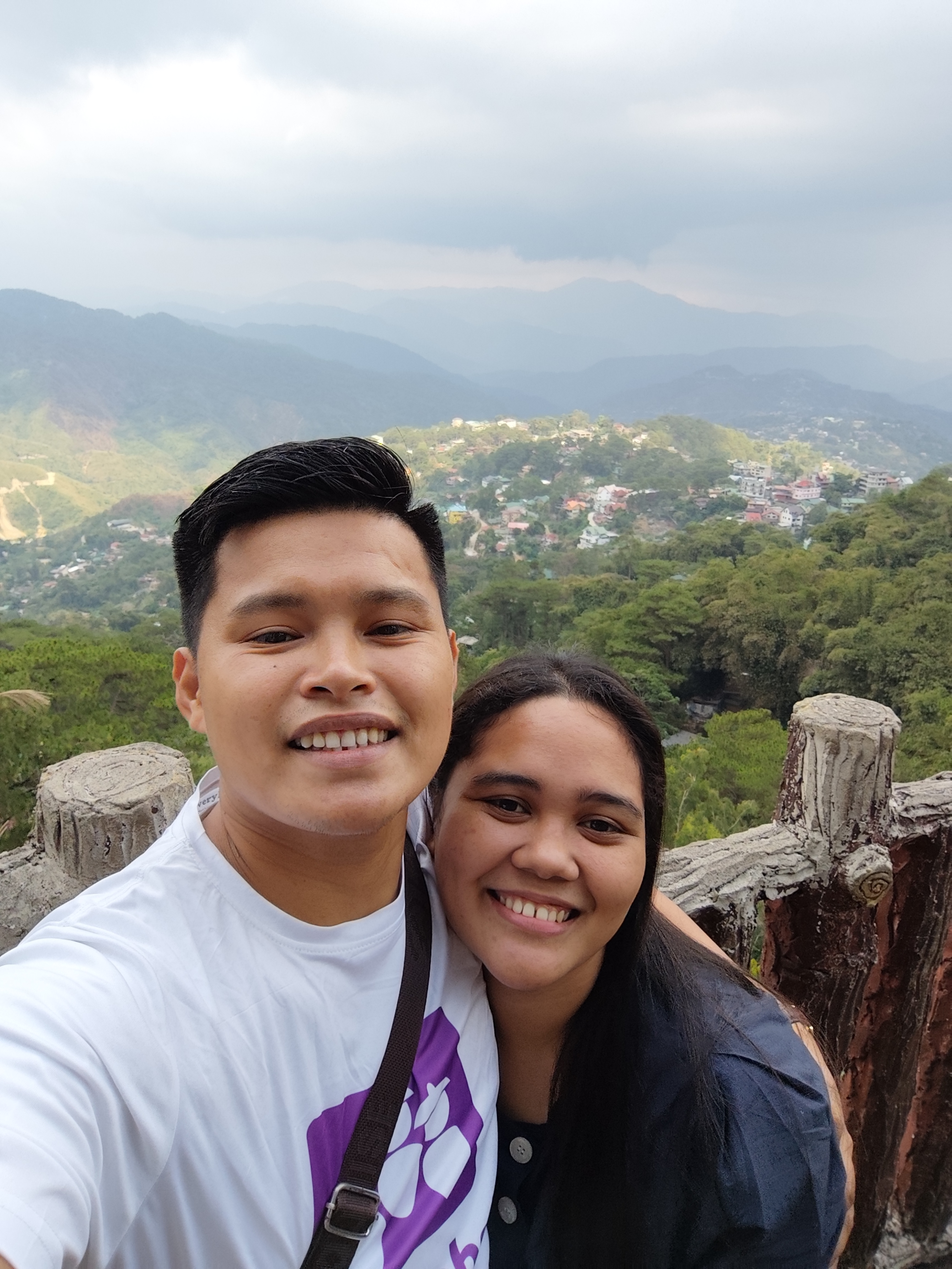
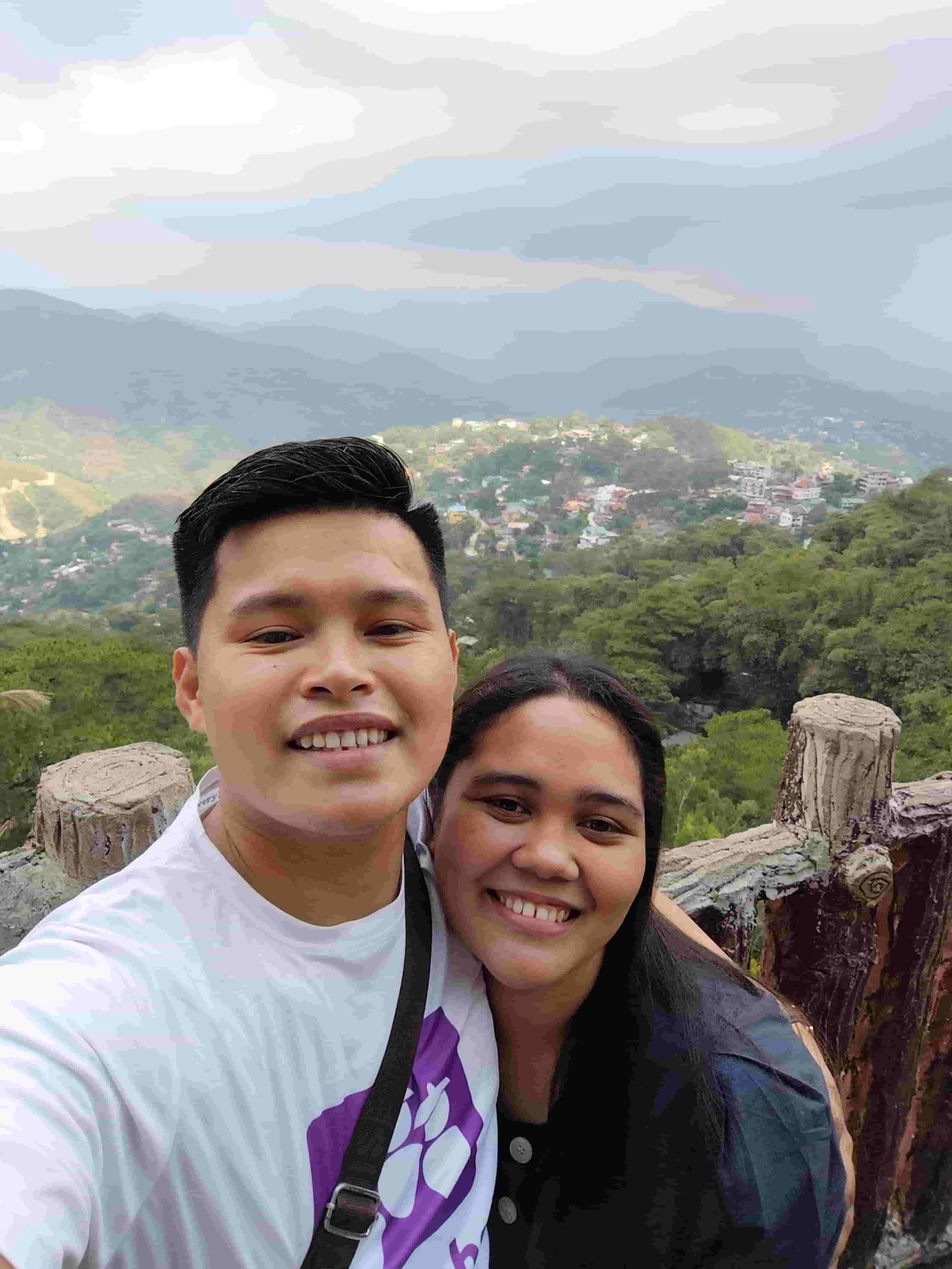
images optimize

diff --git a/place.html b/place.html
@@ -27,7 +27,7 @@
             <picture>
                 <source class="big-image" srcset="images/baguio.webp" media="(min-width: 600px)">
 
-                <img class="hero-image" src="images/inBaguio.webp" alt="Summer Capital of the Philippines">
+                <img class="hero-image" src="images/inBaguio.jpg" alt="Summer Capital of the Philippines">
             </picture>
         </section>
 
